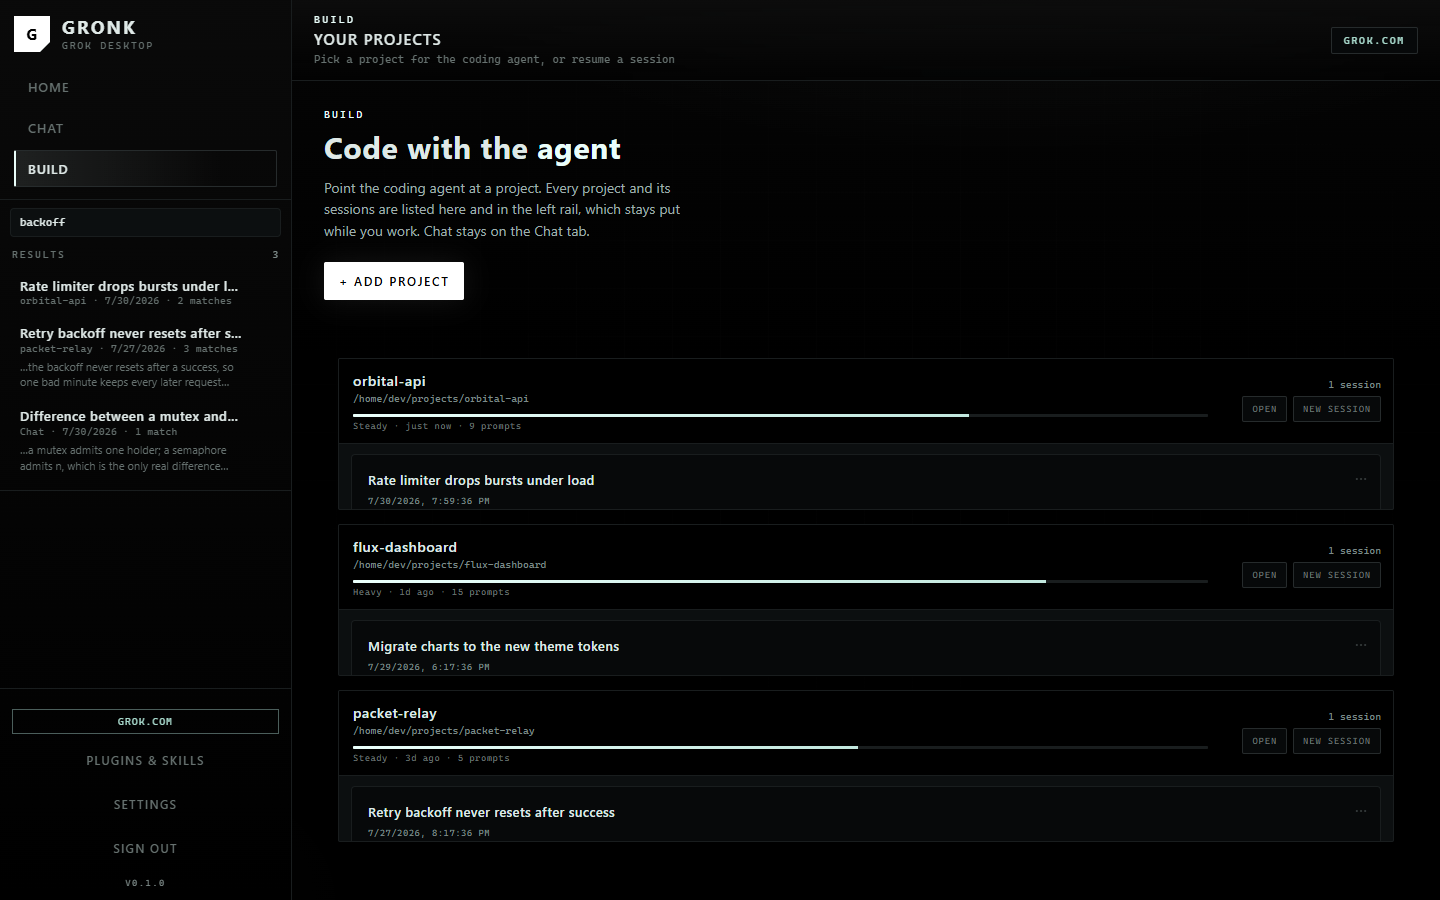
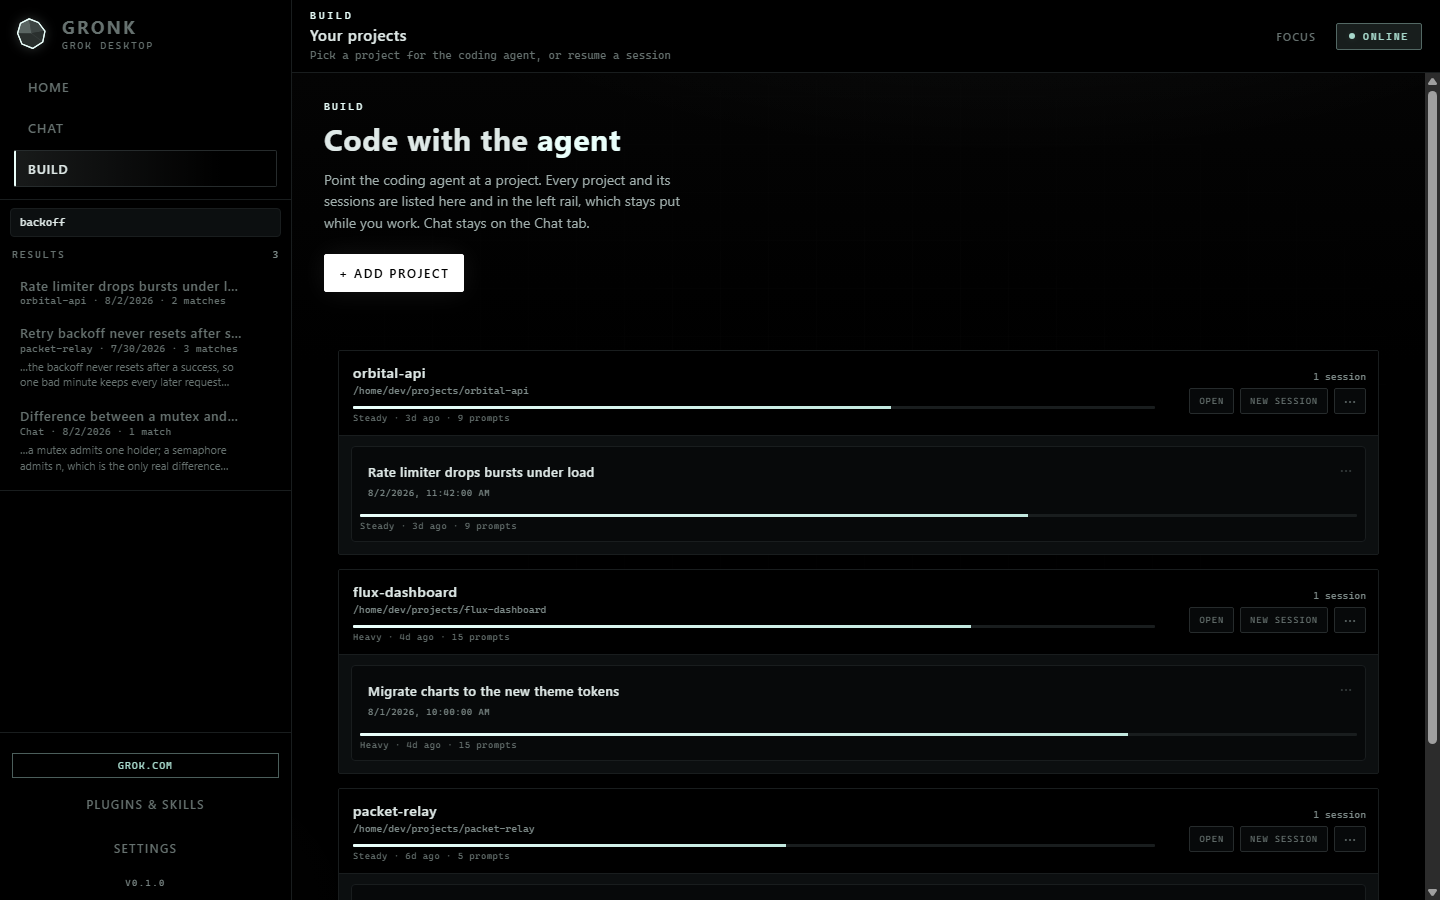
docs: refresh README for 0.2.0 chrome from visual baselines
Copy the post-chrome harness frames into docs/images and update the
front-page prose for Focus, the rock mark, agent dots and tray history,
and Sign out in Settings. Screenshots are fixture renders, not hand
captures, so paths stay anonymised.

diff --git a/README.md b/README.md
@@ -17,11 +17,12 @@ Your projects, your sessions, your history, in a window instead of a terminal.
 
 </div>
 
-![Gronk Home, showing recent projects and an activity heatmap](docs/images/home.png)
+![Gronk Home with the rock brand mark, pure-black chrome, Focus in the topbar, an activity heatmap, and recent projects](docs/images/home.png)
 
 > [!WARNING]
-> **Pre-release.** Built and tested on Windows. The macOS and Linux installers
-> come from CI and have not been run by the author yet. Reports welcome.
+> **0.2.0 is the first full release.** Built and tested on Windows. The macOS and
+> Linux installers come from CI and have not been run by the author yet. Reports
+> welcome.
 
 ## Download
 
@@ -43,7 +44,8 @@ intact, which is integrity rather than authorship.
 
 Gronk runs your local `grok` binary as a child process and talks to it over ACP.
 No backend, no bundled credentials, no model calls of its own. You sign in with
-your own Grok account.
+your own Grok account. Sign out lives in Settings, next to the account it acts
+on.
 
 There are two surfaces, and the difference is whether your files are involved.
 
@@ -52,11 +54,19 @@ There are two surfaces, and the difference is whether your files are involved.
 | **Chat** | A conversation. No project folder, so nothing reads or edits your files. |
 | **Build** | Grok pointed at a folder on your computer, where it can read, edit and run. |
 
+The shell is pure black with the rock brand mark in the rail. **Focus** (topbar
+button, or `[` when you are not typing in a field) hides the sidebar and the idle
+session tray so the conversation fills the frame.
+
 ### Watch the agent work
 
 Every tool call becomes a card. Reads, edits and shell commands, with diffs.
+Spawned agents show as a row of status dots under the turn that started them:
+dim when finished, red when failed, pulsing while live. The Agents tab in the
+session tray keeps that history until you dismiss it, and no longer opens itself
+when work starts.
 
-![A Build session showing tool call cards for read, edit and shell](docs/images/build.png)
+![A Build session with pure-black chrome, the rock mark, Focus in the topbar, and tool call cards for read, edit and shell](docs/images/build.png)
 
 ### Approve before anything runs
 
@@ -71,15 +81,15 @@ Gronk.
 Search titles and message text across Chat and Build at once. Results say where
 they matched and which surface they came from.
 
-![Sidebar search showing results with matching snippets](docs/images/search.png)
+![Sidebar search with pure-black chrome, the rock mark, Focus in the topbar, and results with matching snippets](docs/images/search.png)
 
 ### See your skills
 
 Every skill on your machine, yours and the ones bundled with the CLI. A skill is
 a folder containing `SKILL.md`. Dropping it into `~/.grok/skills` is the whole
-install.
+install. Skills appear next to Installed plugins in the Plugins & Skills panel.
 
-![The Skills tab listing installed skills](docs/images/skills.png)
+![The Plugins and Skills panel with the Skills area available next to Installed plugins](docs/images/skills.png)
 
 ### Know where a plugin came from
 
@@ -87,7 +97,7 @@ Plugin cards show the account that published them, like `github.com/xai-org`.
 A marketplace name is a string anyone can set, so it is shown as a plain label
 and never as a badge. Gronk marks nothing as verified, because it cannot know.
 
-![Plugin cards showing publisher origins](docs/images/plugins.png)
+![Plugin cards on the Installed tab showing publisher origins](docs/images/plugins.png)
 
 ### Also
 
@@ -167,7 +177,9 @@ the magenta regions in `tests/visual/diff/`, then accept it with
 `npm run test:visual:update` if the change was intended.
 
 Baselines are rendered by one machine's font stack, so comparing them on a
-different OS reports differences that are not regressions.
+different OS reports differences that are not regressions. Close every other
+Gronk window before running the harness: it drives by clicking text, and a live
+app window will receive those clicks.
 
 ## Contributing
 
